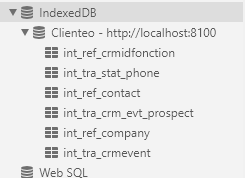
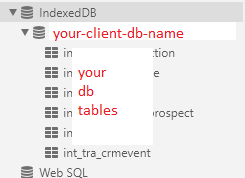
update doc

diff --git a/README.md b/README.md
@@ -7,7 +7,7 @@ The **SyncProxy** client targets hybrid mobile applications (Ionic, Phonegap, Co
 The following tutorial applies to Ionic, but it should be relevant to any Cordova-based framework, too
 
 ## Before starting
-Go to www.syncproxy.com, register and log-in as a proxy administrator (it's free !), then create and configure the proxy to synchronize with your backend database.
+Go to www.syncproxy.com, register and log-in as a proxy administrator (it's free !), then create and configure your proxy to synchronize with your backend database.
 
 ## How to upgrade an existing Ionic application for reactive sync
 To get your existing Ionic application ready with the **SyncProxy** client:
@@ -32,12 +32,21 @@ and when sync is launched, the login prompt should popup:
 
 You are now ready to sync !  Any changes made to your embedded database are sent in realtime to your backend database and *vice-versa*. When offline, all changes made are marked temporarily, and synched when going back online, bidirectionnally.
 
+## How to test data sync
+To facilitate the testing, we recommend beginning with the IndexedDB connector, and run the app within Chrome or Firefox. Using browser's developer's tools, you will be able to verify that the database has been created or updated:
+
+> Launch the app within your browser, and press F12 to open the developer's tools. You will find the created IndexedDB database in the "Application" or "Storage" section of your browse's dev tools.
+
+![dev tools](https://raw.githubusercontent.com/hmellanger/syncproxy-quickstart-ionic/master/dev-tools.png)
+
 ## How to setup a new Ionic application
 In this section, you will learn how to create a new Ionic application and start synching your data with your backend database within minutes.
 
 To begin, setup the Ionic environment and create your first Ionic application as explained in the "Getting Started" section of [Ionic framework website](https://ionicframework.com/).
 
+Once your app is ready, simply follow the 3 easy steps described above to upgrade an existing Ionic app to get it ready to sync.
 
+The **SyncProxy** sync client will create the embedded database for you !  You won't need to worry about the tedious schema management (create tables, created columns, etc.), every upgrade update will applied automatically during the synchronization.
 
 ## Link
 To access SyncProxy administration to setup your sync proxy and connect to your database, go to www.syncproxy.com
